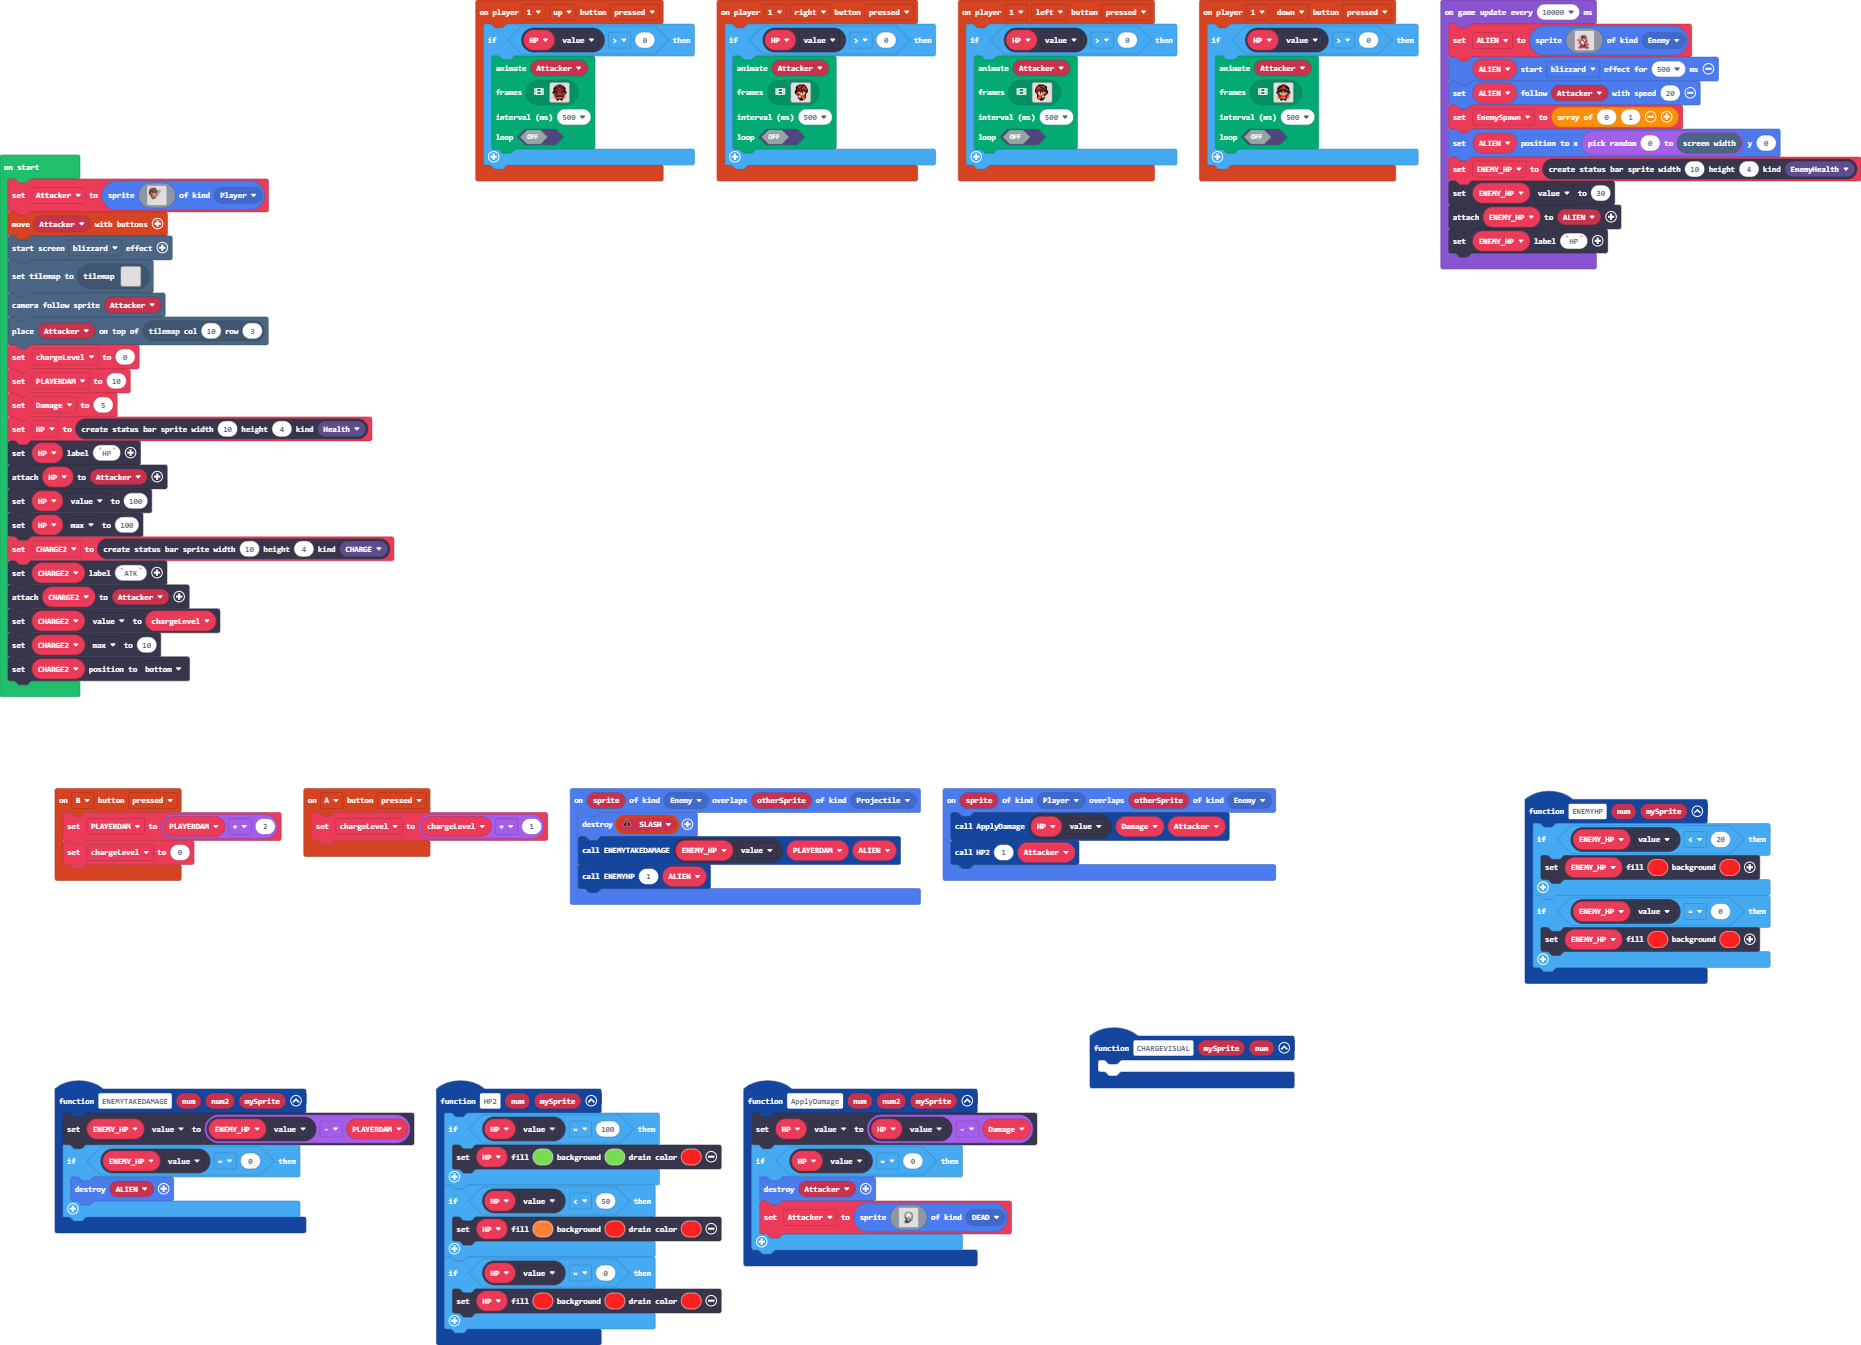
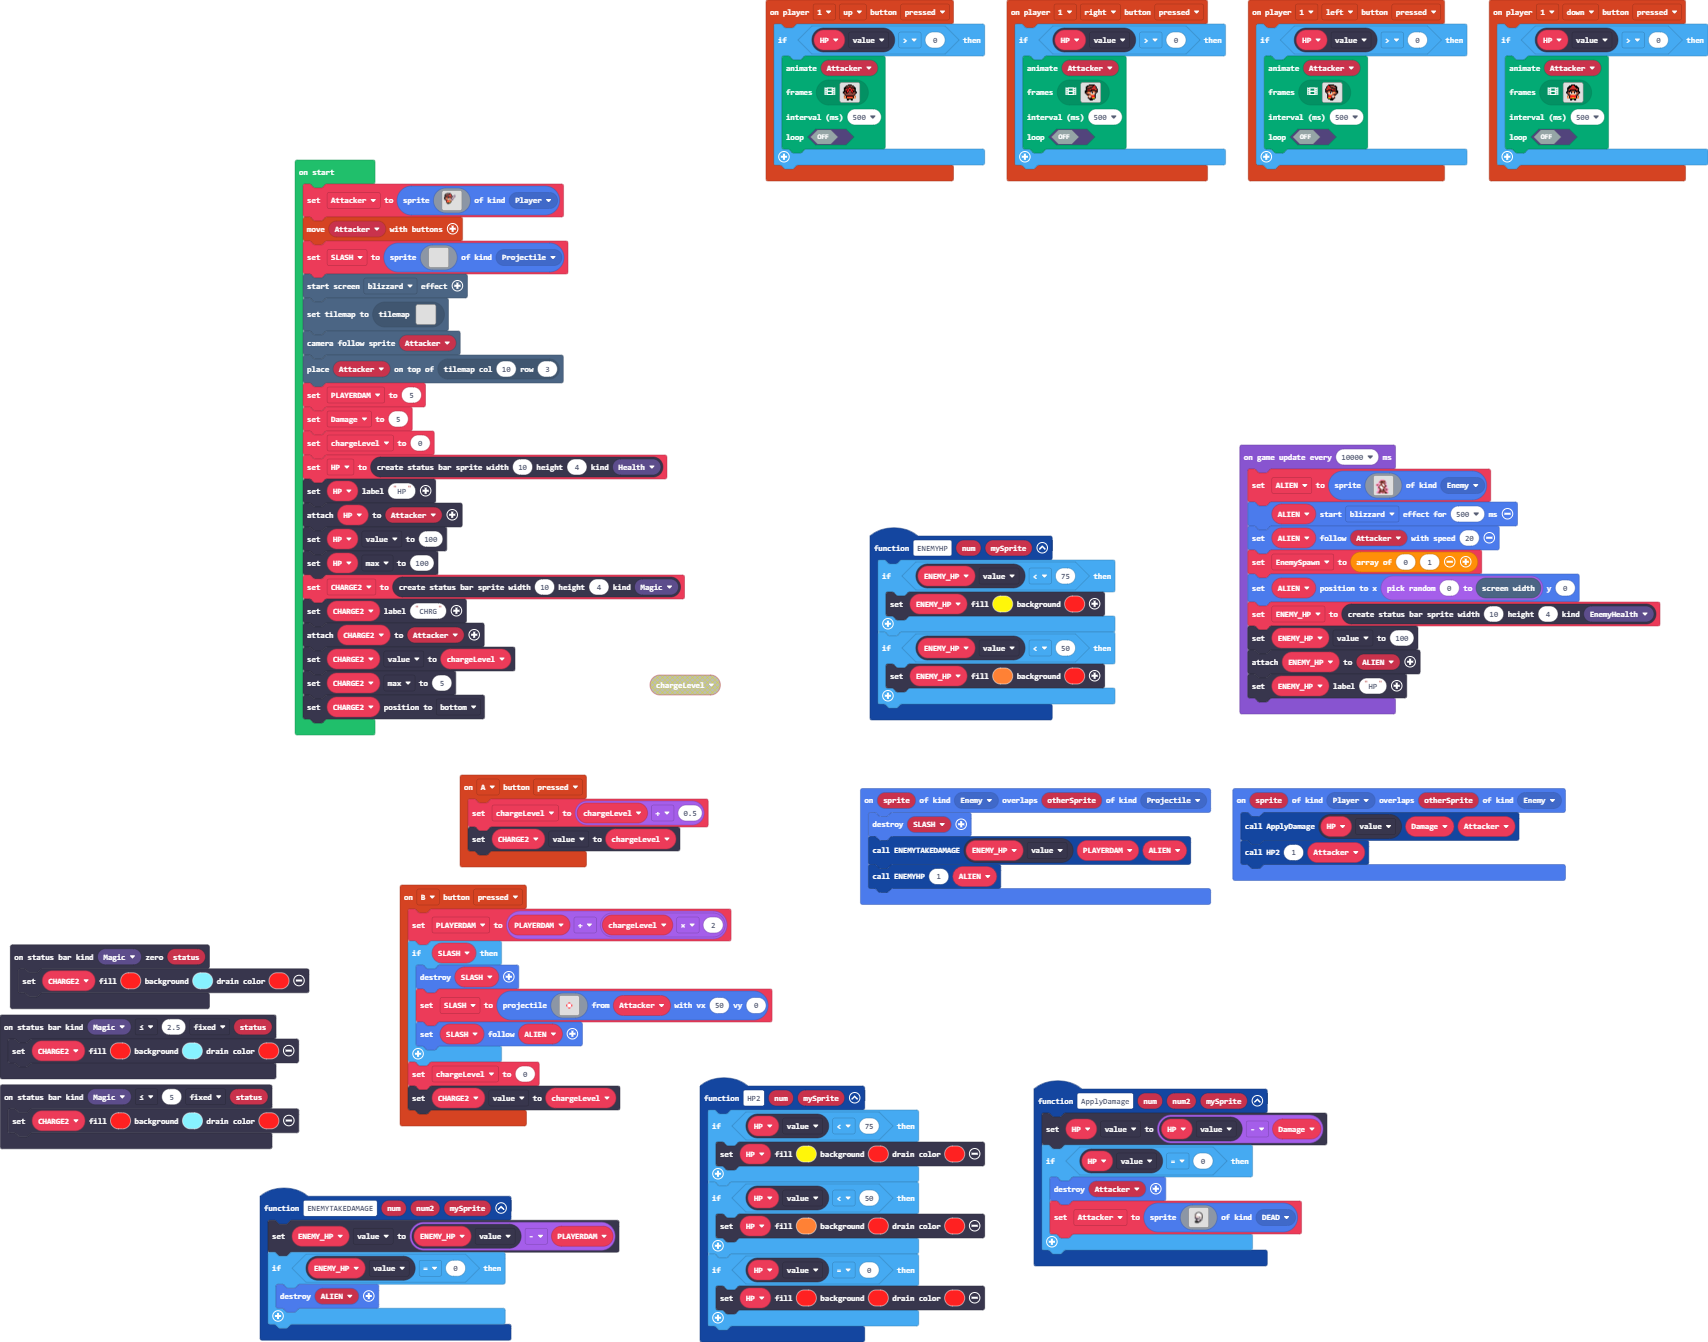
Update main.blocks, main.ts

diff --git a/main.ts b/main.ts
@@ -4,20 +4,40 @@ namespace SpriteKind {
 namespace StatusBarKind {
     export const CHARGE = StatusBarKind.create()
 }
-function CHARGEVISUAL (mySprite: Sprite, num: number) {
-	
-}
 function ENEMYHP (num: number, mySprite: Sprite) {
-    if (ENEMY_HP.value < 20) {
-        ENEMY_HP.setColor(2, 2)
+    if (ENEMY_HP.value < 75) {
+        ENEMY_HP.setColor(5, 2)
     }
-    if (ENEMY_HP.value == 0) {
-        ENEMY_HP.setColor(2, 2)
+    if (ENEMY_HP.value < 50) {
+        ENEMY_HP.setColor(4, 2)
     }
 }
 controller.B.onEvent(ControllerButtonEvent.Pressed, function () {
-    PLAYERDAM = PLAYERDAM + 2
+    PLAYERDAM = PLAYERDAM + chargeLevel * 2
+    if (SLASH) {
+        SLASH.destroy()
+        SLASH = sprites.createProjectileFromSprite(img`
+            . . . . . . . . . . . . . . . . 
+            . . . . . . . . . . . . . . . . 
+            . . . . . . . . . . . . . . . . 
+            . . . . . . . . . . . . . . . . 
+            . . . . . . . . . . . . . . . . 
+            . . . . . . . 2 2 . . . . . . . 
+            . . . . . . 3 1 1 3 . . . . . . 
+            . . . . . 2 1 1 1 1 2 . . . . . 
+            . . . . . 2 1 1 1 1 2 . . . . . 
+            . . . . . . 3 1 1 3 . . . . . . 
+            . . . . . . . 2 2 . . . . . . . 
+            . . . . . . . . . . . . . . . . 
+            . . . . . . . . . . . . . . . . 
+            . . . . . . . . . . . . . . . . 
+            . . . . . . . . . . . . . . . . 
+            . . . . . . . . . . . . . . . . 
+            `, Attacker, 50, 0)
+        SLASH.follow(ALIEN)
+    }
     chargeLevel = 0
+    CHARGE2.value = chargeLevel
 })
 controller.player1.onButtonEvent(ControllerButton.Up, ControllerButtonEvent.Pressed, function () {
     if (HP.value > 0) {
@@ -97,8 +117,12 @@ controller.player1.onButtonEvent(ControllerButton.Up, ControllerButtonEvent.Pres
         )
     }
 })
+statusbars.onStatusReached(StatusBarKind.Magic, statusbars.StatusComparison.LTE, statusbars.ComparisonType.Fixed, 2.5, function (status) {
+    CHARGE2.setColor(2, 9, 2)
+})
 controller.A.onEvent(ControllerButtonEvent.Pressed, function () {
-    chargeLevel = chargeLevel + 1
+    chargeLevel = chargeLevel + 0.5
+    CHARGE2.value = chargeLevel
 })
 function ENEMYTAKEDAMAGE (num: number, num2: number, mySprite: Sprite) {
     ENEMY_HP.value = ENEMY_HP.value - PLAYERDAM
@@ -107,10 +131,15 @@ function ENEMYTAKEDAMAGE (num: number, num2: number, mySprite: Sprite) {
     }
 }
 sprites.onOverlap(SpriteKind.Enemy, SpriteKind.Projectile, function (sprite, otherSprite) {
-    let SLASH: Sprite = null
     sprites.destroy(SLASH)
     ENEMYTAKEDAMAGE(ENEMY_HP.value, PLAYERDAM, ALIEN)
     ENEMYHP(1, ALIEN)
+})
+statusbars.onZero(StatusBarKind.Magic, function (status) {
+    CHARGE2.setColor(2, 9, 2)
+})
+statusbars.onStatusReached(StatusBarKind.Magic, statusbars.StatusComparison.LTE, statusbars.ComparisonType.Fixed, 5, function (status) {
+    CHARGE2.setColor(2, 9, 2)
 })
 controller.player1.onButtonEvent(ControllerButton.Right, ControllerButtonEvent.Pressed, function () {
     if (HP.value > 0) {
@@ -191,8 +220,8 @@ controller.player1.onButtonEvent(ControllerButton.Right, ControllerButtonEvent.P
     }
 })
 function HP2 (num: number, mySprite: Sprite) {
-    if (HP.value == 100) {
-        HP.setColor(7, 7, 2)
+    if (HP.value < 75) {
+        HP.setColor(5, 2, 2)
     }
     if (HP.value < 50) {
         HP.setColor(4, 2, 2)
@@ -396,10 +425,12 @@ sprites.onOverlap(SpriteKind.Player, SpriteKind.Enemy, function (sprite, otherSp
 let EnemySpawn: number[] = []
 let ALIEN: Sprite = null
 let ENEMY_HP: StatusBarSprite = null
+let CHARGE2: StatusBarSprite = null
 let HP: StatusBarSprite = null
+let chargeLevel = 0
 let Damage = 0
 let PLAYERDAM = 0
-let chargeLevel = 0
+let SLASH: Sprite = null
 let Attacker: Sprite = null
 Attacker = sprites.create(img`
     ........................
@@ -428,23 +459,41 @@ Attacker = sprites.create(img`
     ........................
     `, SpriteKind.Player)
 controller.moveSprite(Attacker)
+SLASH = sprites.create(img`
+    . . . . . . . . . . . . . . . . 
+    . . . . . . . . . . . . . . . . 
+    . . . . . . . . . . . . . . . . 
+    . . . . . . . . . . . . . . . . 
+    . . . . . . . . . . . . . . . . 
+    . . . . . . . . . . . . . . . . 
+    . . . . . . . . . . . . . . . . 
+    . . . . . . . . . . . . . . . . 
+    . . . . . . . . . . . . . . . . 
+    . . . . . . . . . . . . . . . . 
+    . . . . . . . . . . . . . . . . 
+    . . . . . . . . . . . . . . . . 
+    . . . . . . . . . . . . . . . . 
+    . . . . . . . . . . . . . . . . 
+    . . . . . . . . . . . . . . . . 
+    . . . . . . . . . . . . . . . . 
+    `, SpriteKind.Projectile)
 effects.blizzard.startScreenEffect()
 tiles.setCurrentTilemap(tilemap`level1`)
 scene.cameraFollowSprite(Attacker)
 tiles.placeOnTile(Attacker, tiles.getTileLocation(10, 3))
-chargeLevel = 0
-PLAYERDAM = 10
+PLAYERDAM = 5
 Damage = 5
+chargeLevel = 0
 HP = statusbars.create(10, 4, StatusBarKind.Health)
 HP.setLabel("HP")
 HP.attachToSprite(Attacker)
 HP.value = 100
 HP.max = 100
-let CHARGE2 = statusbars.create(10, 4, StatusBarKind.CHARGE)
-CHARGE2.setLabel("ATK")
+CHARGE2 = statusbars.create(10, 4, StatusBarKind.Magic)
+CHARGE2.setLabel("CHRG")
 CHARGE2.attachToSprite(Attacker)
 CHARGE2.value = chargeLevel
-CHARGE2.max = 10
+CHARGE2.max = 5
 CHARGE2.positionDirection(CollisionDirection.Bottom)
 game.onUpdateInterval(10000, function () {
     ALIEN = sprites.create(img`
@@ -470,7 +519,7 @@ game.onUpdateInterval(10000, function () {
     EnemySpawn = [0, 1]
     ALIEN.setPosition(randint(0, scene.screenWidth()), 0)
     ENEMY_HP = statusbars.create(10, 4, StatusBarKind.EnemyHealth)
-    ENEMY_HP.value = 30
+    ENEMY_HP.value = 100
     ENEMY_HP.attachToSprite(ALIEN)
     ENEMY_HP.setLabel("HP")
 })
